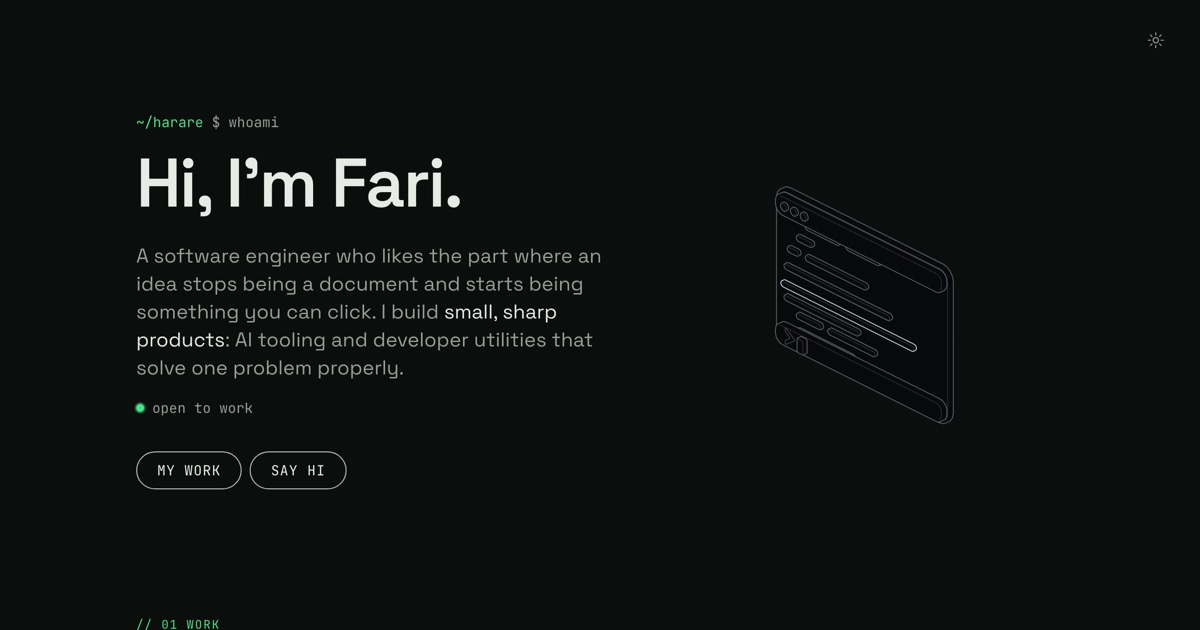
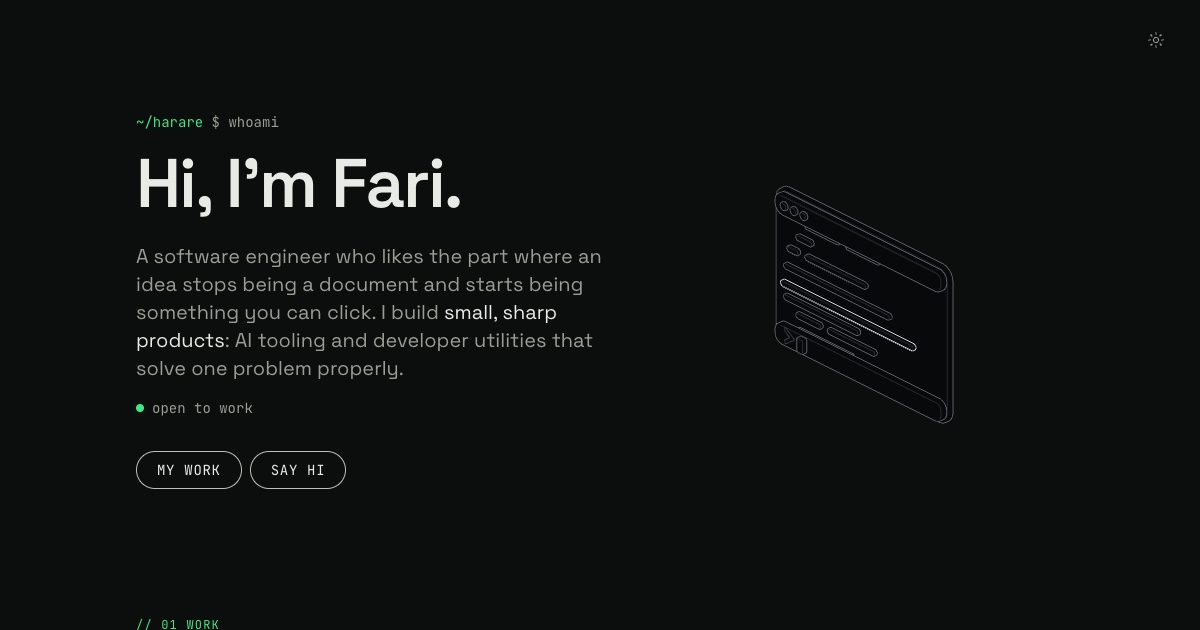
Update portfolio link preview screenshot

diff --git a/app/layout.tsx b/app/layout.tsx
@@ -27,7 +27,7 @@ export const metadata: Metadata = {
     description: 'A portfolio showcasing some of my work',
     images: [
       {
-        url: 'https://fariraimasocha.co.zw/og-image.jpg?v=2',
+        url: 'https://fariraimasocha.co.zw/og-image.jpg?v=3',
         width: 1200,
         height: 630,
         alt: 'fariraimasocha portfolio preview'
@@ -38,7 +38,7 @@ export const metadata: Metadata = {
     card: 'summary_large_image',
     title: 'fariraimasocha',
     description: 'A portfolio showcasing some of my work',
-    images: ['https://fariraimasocha.co.zw/og-image.jpg?v=2'],
+    images: ['https://fariraimasocha.co.zw/og-image.jpg?v=3'],
   }
 }
 
